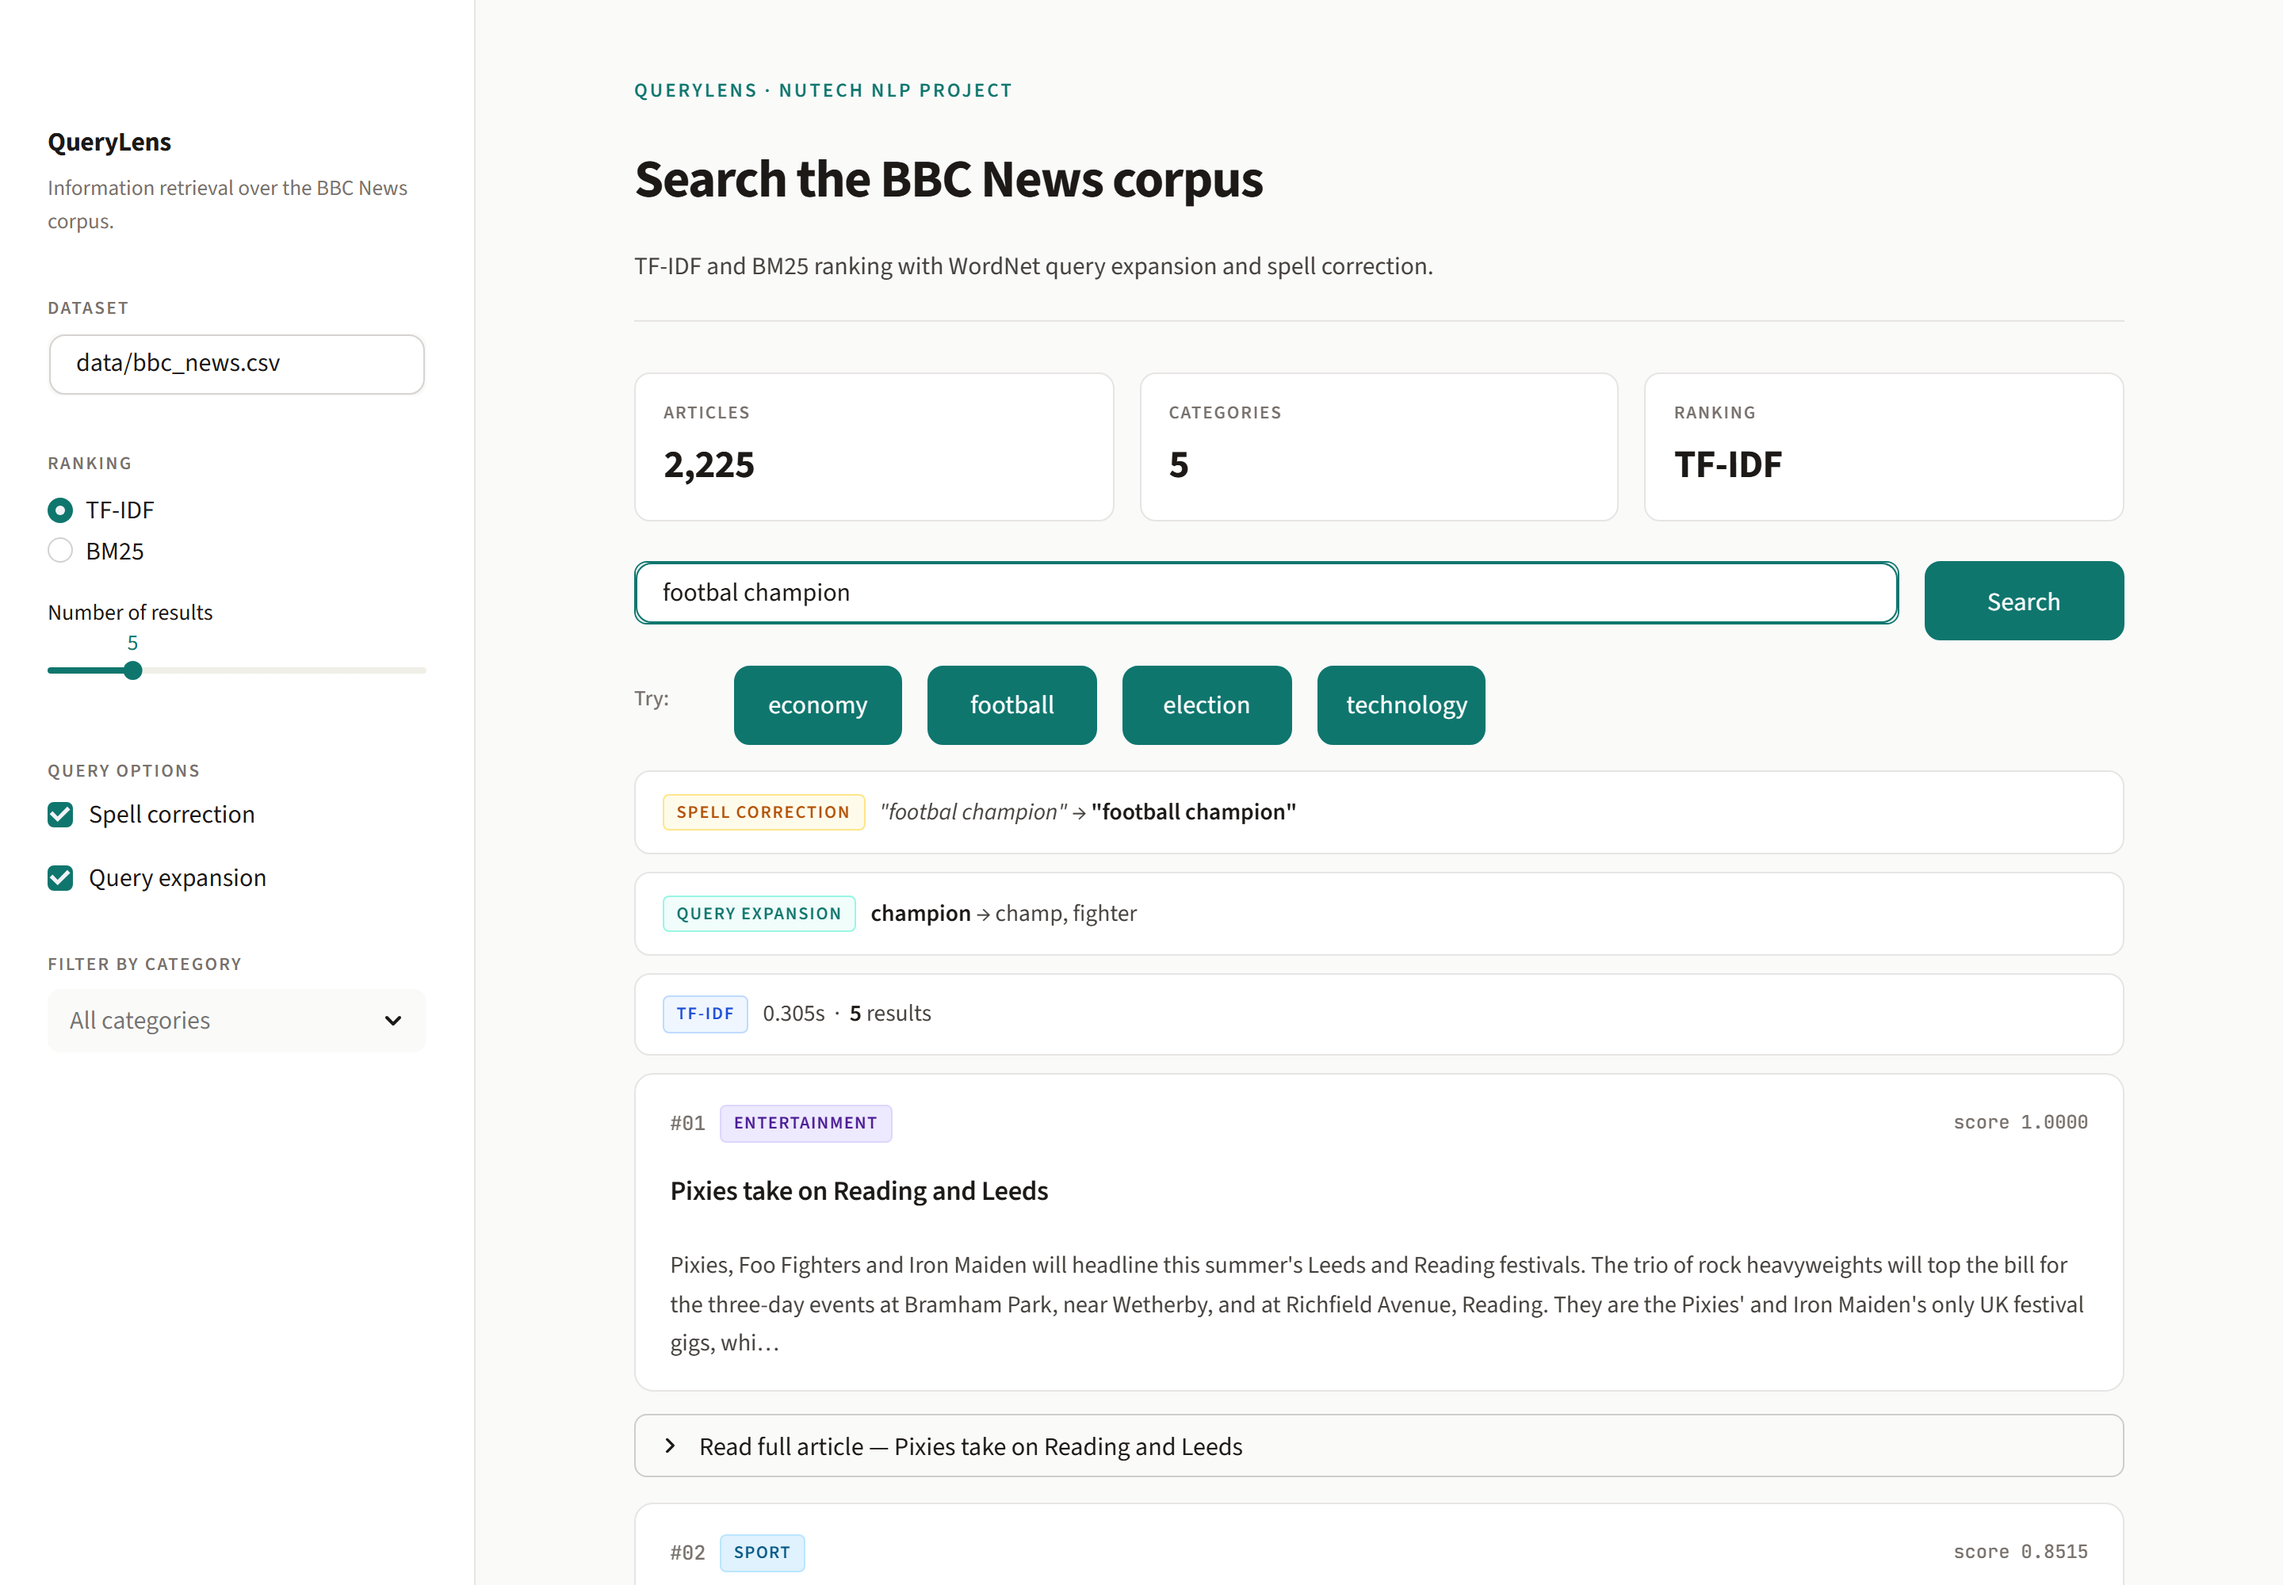
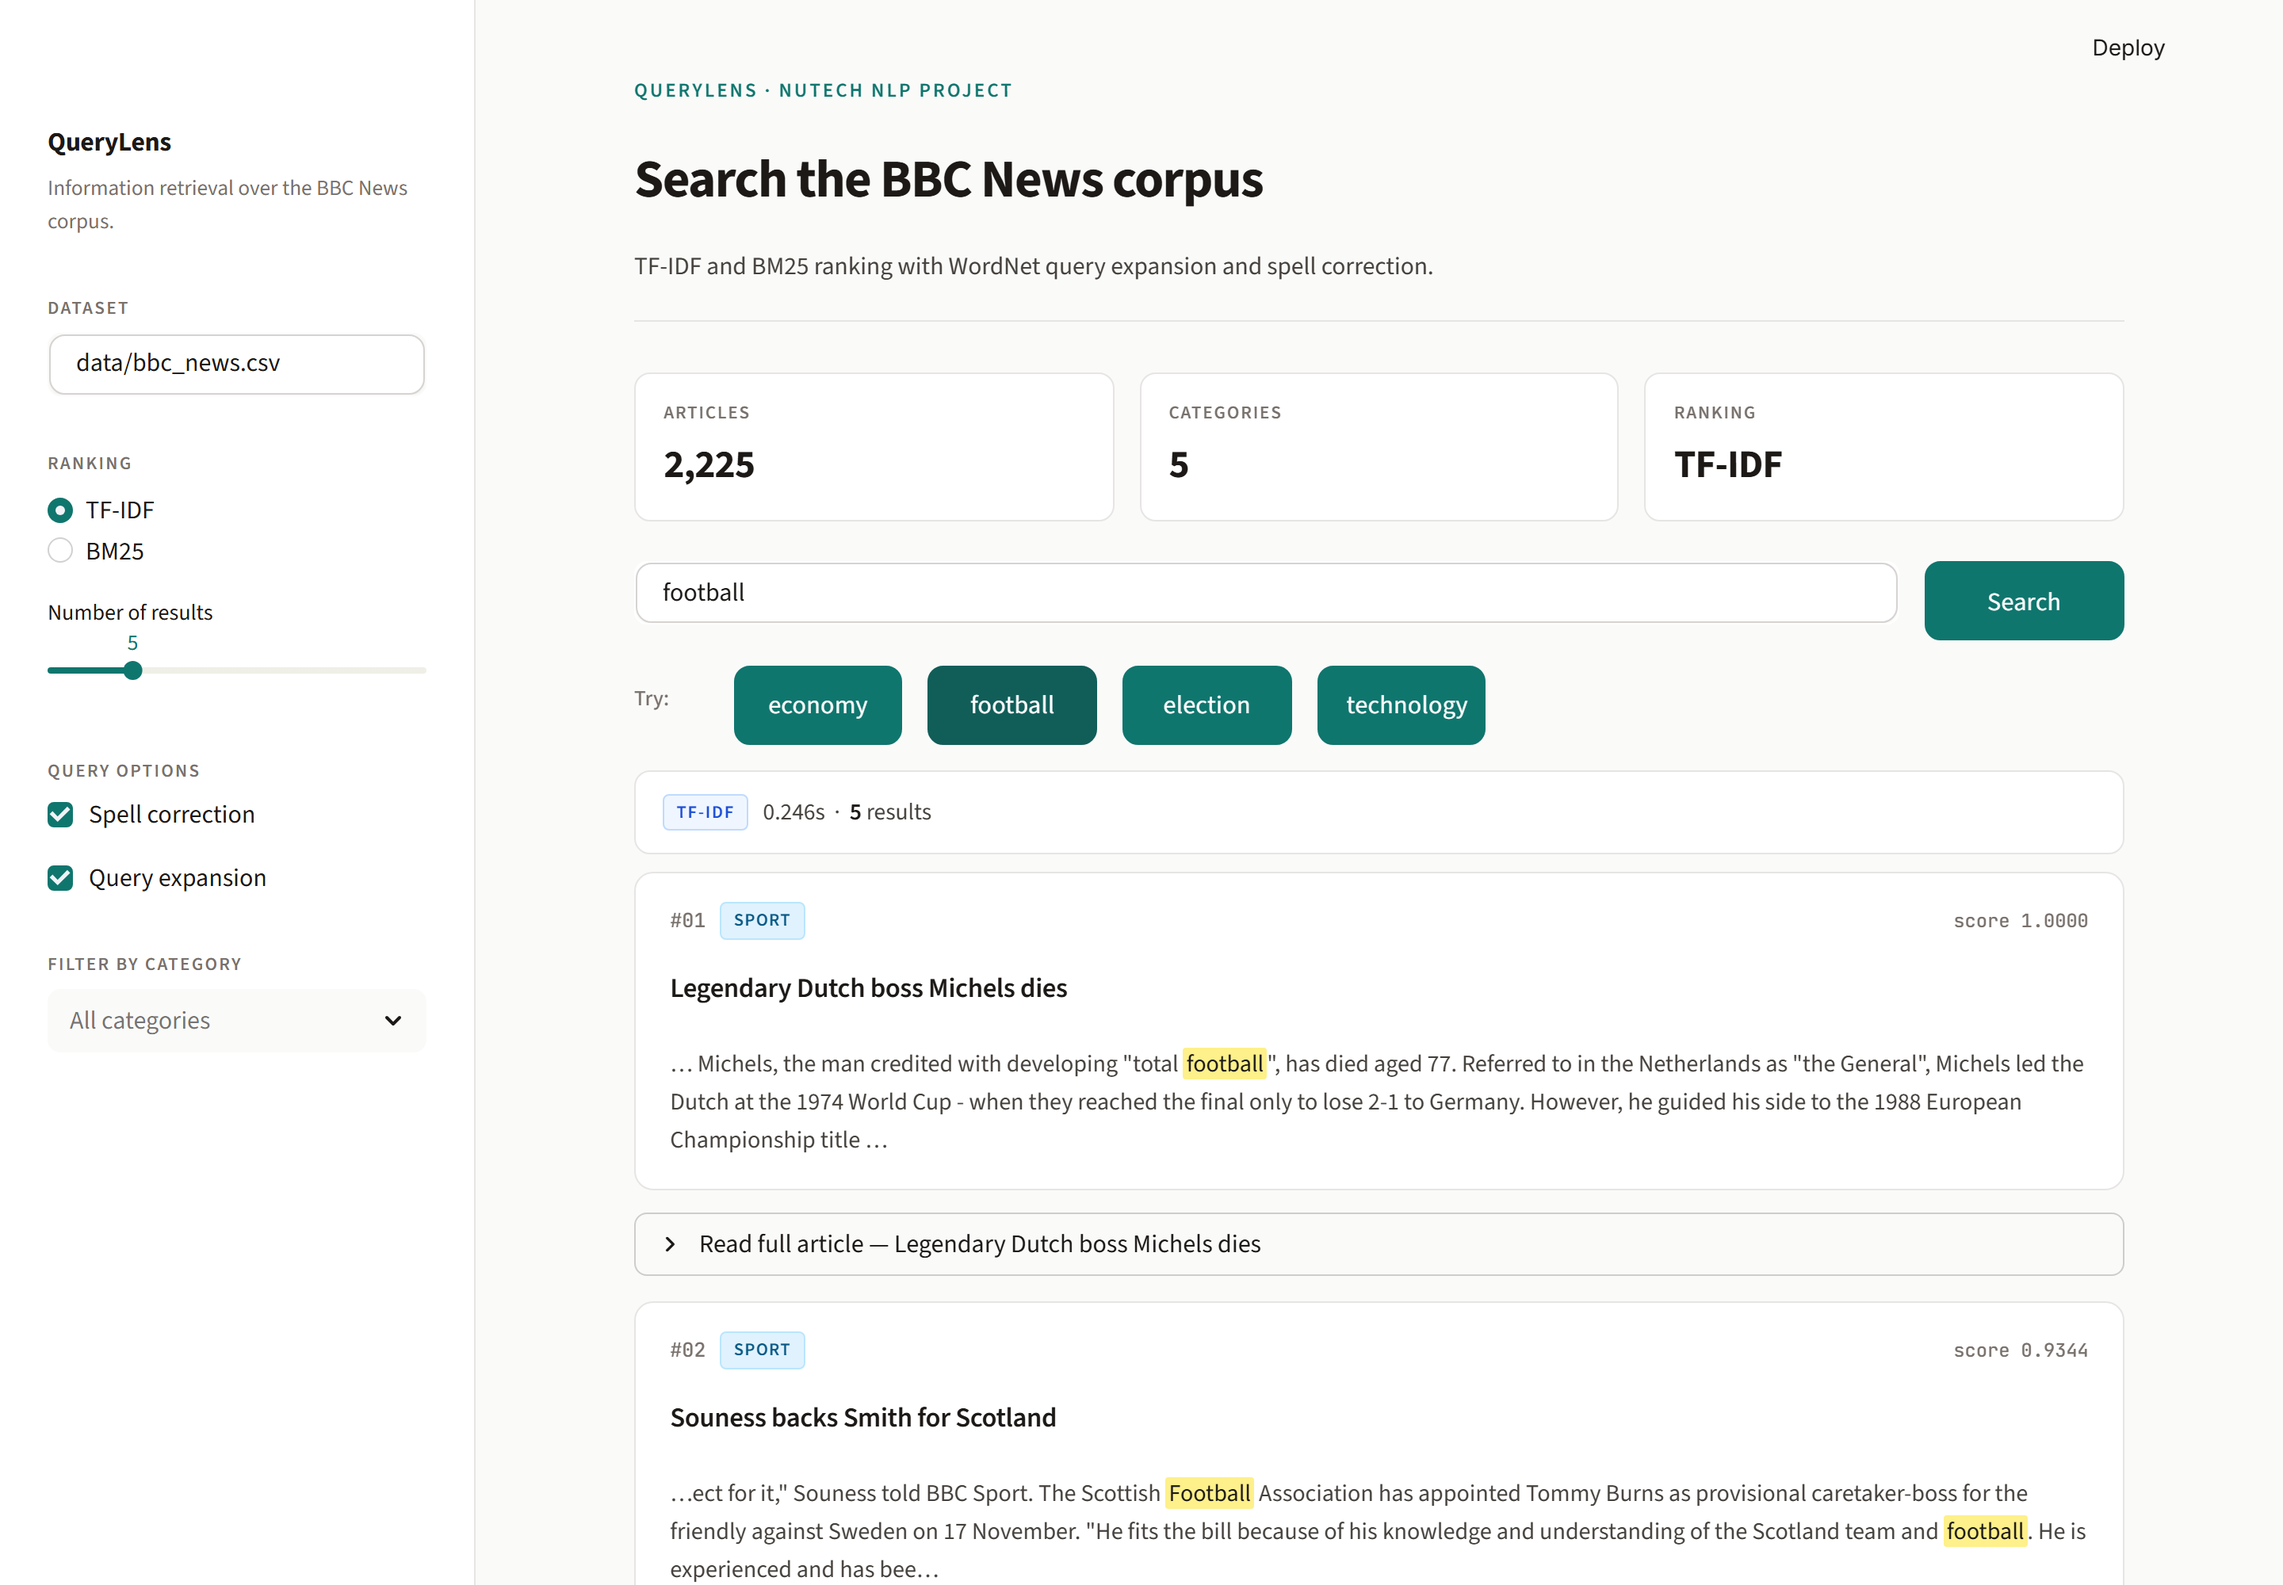
Fix sidebar toggle and suggestion-button state error
- Keep Streamlit header visible so the sidebar reopen toggle is reachable
- Use on_click callbacks to set the search input from suggestion chips
  (fixes 'session_state cannot be modified after widget instantiation')

Changed region(s): [[0.2812, 0.558, 0.9062, 1.0], [0.2812, 0.496, 0.5625, 0.527], [0.3125, 0.372, 0.375, 0.403]]

diff --git a/app.py b/app.py
@@ -47,8 +47,10 @@ html, body, [class*="css"], [data-testid="stAppViewContainer"], [data-testid="st
 }
 [data-testid="stAppViewContainer"] { background: var(--bg); }
 
-/* Hide Streamlit chrome we don't need */
-#MainMenu, footer, header { visibility: hidden; }
+/* Hide Streamlit chrome we don't need (keep header so sidebar toggle stays) */
+#MainMenu, footer { visibility: hidden; }
+[data-testid="stHeader"] { background: transparent; }
+[data-testid="stToolbar"] { right: 1rem; }
 .block-container { padding-top: 2rem; max-width: 1100px; }
 
 /* ── Header ───────────────────────────────────────────────────────────────── */
@@ -379,17 +381,25 @@ with st.sidebar:
 #  Search bar
 # ════════════════════════════════════════════════════════════════════════════
 
-# Suggestion buttons set query via session state
+# Suggestion buttons feed the search input via on_click callbacks.
+# We can't write to a widget's key after the widget is instantiated on the same
+# run, so we use on_click handlers — those execute *before* the rerun, so the
+# text_input picks up the new value cleanly on the next render.
 SUGGESTIONS = ["economy", "football", "election", "technology"]
 
-if "query" not in st.session_state:
-    st.session_state["query"] = ""
+if "query_input" not in st.session_state:
+    st.session_state["query_input"] = ""
+
+
+def _set_query(value: str) -> None:
+    st.session_state["query_input"] = value
+
 
 query_col, btn_col = st.columns([6, 1])
 with query_col:
     query = st.text_input(
         "Search",
-        key="query",
+        key="query_input",
         placeholder='Try "machine learning economy" or "footbal champion"',
         label_visibility="collapsed",
     )
@@ -403,9 +413,13 @@ sugg_cols[0].markdown(
     unsafe_allow_html=True,
 )
 for i, s in enumerate(SUGGESTIONS):
-    if sugg_cols[i + 1].button(s, key=f"sugg_{i}", use_container_width=True):
-        st.session_state["query"] = s
-        st.rerun()
+    sugg_cols[i + 1].button(
+        s,
+        key=f"sugg_{i}",
+        use_container_width=True,
+        on_click=_set_query,
+        args=(s,),
+    )
 
 # ════════════════════════════════════════════════════════════════════════════
 #  Results
